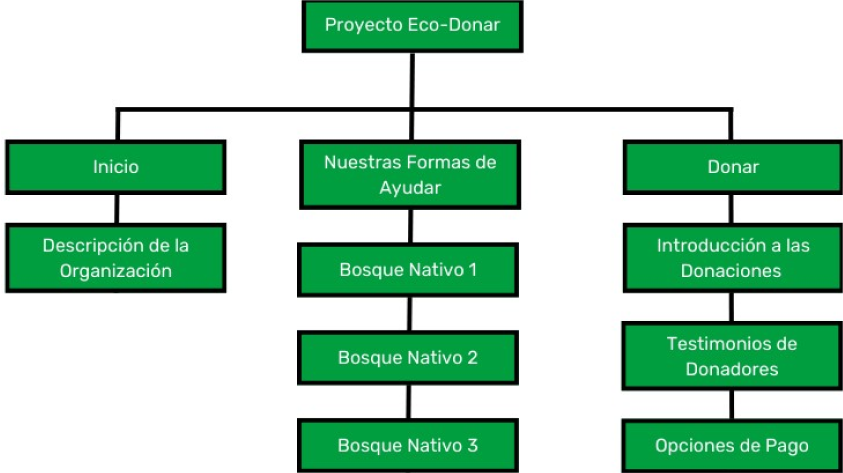
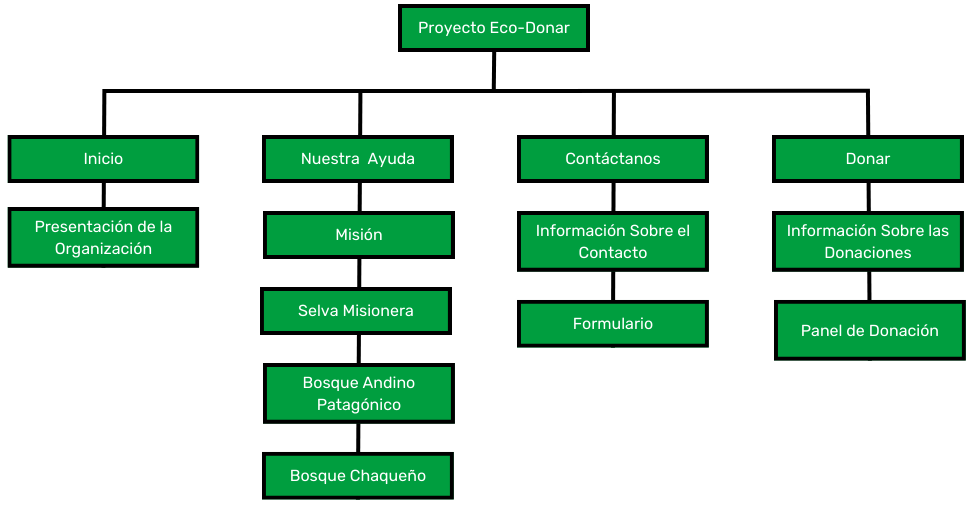
Add files via upload

diff --git a/avances.html b/avances.html
@@ -19,6 +19,7 @@
         <li class="navbar-links"><a href="integrantes.html">Integrantes</a></li>
         <li class="navbar-links"><a href="proyecto.html">Proyecto</a></li>
         <li class="navbar-links"><a href="avances.html">Avances</a></li>
+        <li class="navbar-links"><a href="proyecto-sitio.html">Sitio del Proyecto</a></li>
       </ul>
     </nav>
   </header>
@@ -56,6 +57,7 @@
         <br>
         <b class="texto2">Logo</b>
         <br>
+        
         <img class="logo" src="img\logo-empresa.png" alt="Logo Empresa">
         <br>
         <br>
@@ -75,24 +77,22 @@
         <br>
         <b class="texto6">Inicio</b>
         <br>
-        Descripción de la organización y su misión.
+        Este sector contiene un texto donde se presenta a la organización y sus objetivos 
         <br>
         <br>
-        <b class="texto6">Nuestra forma de ayudar</b>
+        <b class="texto6">Nuestra ayuda</b>
         <br>
-        Tres secciones secundarias, cada una destacando un bosque nativo y sus desafíos.
+        Esta sección presenta la misión de la organización junto con textos que detallan los bosques respaldados: Selva Misionera, Bosque Andino-Patagónico y Bosque Chaqueño. Se abordan las problemáticas de cada uno, como la deforestación, incendios y desertificación, proponiendo soluciones a través de programas de reforestación, brigadas antiincendios y prácticas agrícolas sostenibles en colaboración con las comunidades locales. 
+        <br>
+        <br>
+        <b class="texto6">Contáctanos</b>
+        <br>
+        Este sector contiene un texto que anima a los usuarios a ponerse en contacto con la organización, junto con un formulario que facilita dicha comunicación.
         <br>
         <br>
         <b class="texto6">Donar</b>
         <br>
-        Primera sección: Explicación de la flexibilidad en las donaciones y cómo se utilizarán los fondos.
-        <br>
-        <br>
-        Segunda sección: Testimonios de donadores.
-        <br>
-        <br>
-        Tercera sección: Opciones de pago y formulario de donación.
-        <br>
+        Esta sección presenta un texto que anima a los usuarios a donar y les explica las distintas variables a la hora de hacerlo, junto con un panel de donaciones para hacer posible esta acción.
         <br>
         <br>
         <b class="texto2">Carpeta del Proyecto</b>
@@ -109,11 +109,11 @@
         <br>
         <b>Diseñador UX/UI:</b> Santino Bertoia
         <br>
-        <b>Maquetador:</b> Santino Bertoia
+        <b>Maquetador:</b> Santino Bertoia, Nahuel Stellato, Lautaro Guardia y Matias Cristaldo  
         <br>
-        <b>Programador:</b> Santino Bertoia y Lautaro Guardia
+        <b>Programador:</b> Santino Bertoia, Nahuel Stellato, Lautaro Guardia y Matias Cristaldo 
         <br>
-        <b>Comunicador Web:</b>
+        <b>Comunicador Web:</b> Santino Bertoia y Lautaro Guardia
         <br>
         <br>
       </div>

diff --git a/proyecto-sitio.css b/proyecto-sitio.css
@@ -1,9 +1,6 @@
 @import url('https://fonts.googleapis.com/css2?family=Rubik:wght@300;400;500;700&display=swap');
 
-html {
-    height: 100%;
-}
-
+html{height:  100%;}
 * {
     margin: 0;
     padding: 0;
@@ -11,11 +8,54 @@ html {
     font-family: 'Rubik', sans-serif;
 }
 
+body {
+    background-color:white;
+    display: flex;
+    flex-direction: column;
+    min-height: 100vh;
+}
+
 header {
     width: 100%;
+    margin: 0px;
     position: relative;
     height: auto;
-    z-index: 2;
+}
+
+main {
+    display: flex;
+    flex-direction: column;
+    align-items: center;
+    height: 80vh;
+    text-align: center;
+}
+
+.titulo {
+    color: black;
+    margin-top: 2.25rem;
+    font-size: 5rem;
+    text-decoration: underline;
+}
+
+.link {
+    color: #009E3F;
+    margin-top: 1.75rem;
+    font-size: 2rem;
+
+}
+
+.video {
+    margin-top: 1.75rem;
+    border: 10px solid #009E3F;
+    border-radius: 3%;
+    width: 700px;
+    height: 400px;
+}
+
+footer {
+    width: 100%;
+    margin-top: auto;
+    background-color: #009E3F;
 }
 
 .navbar ul {
@@ -66,6 +106,13 @@ header {
 }
 
 @media (max-width: 860px) {
+    .video {
+        width: 350px;
+        height: 200px;
+    }
+    .titulo{
+        font-size: 3rem;
+    }
     .navbar ul {
         flex-wrap: wrap;
     }
@@ -84,95 +131,10 @@ header {
     footer {
         flex-direction: column;
         text-align: center;
-        margin-bottom: 0.5rem;
     }
     footer p {
         display: none;
     }
-}
-
-.texto6{
-    color: #009E3F;
-    text-decoration: underline;
-}
-
-.contenedor{
-    font-size: 40px;
-}
-
-.texto5{
-    font-size: 5rem;
-    padding-bottom: 2%;
-    text-decoration: underline;
-}
-
-.texto2{
-    color: #009E3F;
-    text-decoration: underline;
-    font-size: 4.5rem;
-}
-
-.texto1{
-    color: #009E3F;
-    font-size: 50px;
-    text-align: center;
-    
-}
-
-.texto3{
-    font-size: 2rem;
-    font-weight: bolder;
-    color: white;
-
-}
-
-body {
-    background-color: white;
-    display: flex;
-    flex-direction: column;
-    min-height: 100vh;
-    margin: 0; 
-}
-
-.estructura{
-text-align: center;
-font-size: 20px;
-}
-
-.logo{
-    margin-top: 0.5%;
-    width: 100%;
-    height: auto;
-    max-width: 20rem;
-}
-
-.paleta {
-    background-color: darkgrey;
-    padding: 1.5%;
-    width: 100%;
-    height: auto;
-    max-width: 45rem;
-}
-
-.arbol {
-    width: 100%;
-    height: auto;
-    max-width: 75rem;
-}
-
-span {
-    color: #009E3F;
-}
-
-.texto{
-    text-align: left;
-    background-color:#008000;
-    border-style: solid;
-    border-radius: 30px;
-    padding: 10px;
-    margin: 10px;
-    font-size: 30px;
-    color: white;
 }
 
 footer {
@@ -182,8 +144,6 @@ footer {
     padding: 1rem; 
     background-color: #009E3F;
     color: white;
-    position: relative;
-    z-index: 2; 
 }
 
 footer img {

diff --git a/proyecto.html b/proyecto.html
@@ -13,12 +13,13 @@
   <header>
       <nav class="navbar">
           <ul>
-              <li class="navbar-logo">Grupo 9</li>
-              <li class="navbar-icono"><i class="fas fa-bars"></i></li>
-              <li class="navbar-links"><a href="index.html">Home</a></li>
-              <li class="navbar-links"><a href="integrantes.html">Integrantes</a></li>
-              <li class="navbar-links"><a href="proyecto.html">Proyecto</a></li>
-              <li class="navbar-links"><a href="avances.html">Avances</a></li>
+            <li class="navbar-logo">Grupo 9</li>
+            <li class="navbar-icono"><i class="fas fa-bars"></i></li>
+            <li class="navbar-links"><a href="index.html">Home</a></li>
+            <li class="navbar-links"><a href="integrantes.html">Integrantes</a></li>
+            <li class="navbar-links"><a href="proyecto.html">Proyecto</a></li>
+            <li class="navbar-links"><a href="avances.html">Avances</a></li>
+            <li class="navbar-links"><a href="proyecto-sitio.html">Sitio del Proyecto</a></li>
           </ul>
       </nav> 
   </header>
@@ -44,7 +45,8 @@
       <p class="texto">Desarrollar un proyecto de energía solar y eólica en la Antártida, llamado "Aurora", para reducir la dependencia de combustibles fósiles y mitigar el cambio climático.</p>
       <br>
       <p class="subtitulo">Antártida 3D:</p>
-      <p class="texto"> Crear experiencias educativas en realidad virtual que permitan a las personas explorar la Antártida de manera virtual, aprendiendo sobre su importancia y los desafíos ambientales.</p>
+      <p class="texto">Antártida 3D:
+        Crear experiencias educativas en realidad virtual que permitan a las personas explorar la Antártida de manera virtual, aprendiendo sobre su importancia y los desafíos ambientales.</p>
       <br>
       <p class="subtitulo">Huella Cero:</p>
       <p class="texto">Desarrollar pautas y estándares estrictos para el turismo en la Antártida, promoviendo visitas sostenibles con cero impacto ambiental.</p>

diff --git a/proyecto-sitio.html b/proyecto-sitio.html
@@ -3,10 +3,10 @@
 <head>
     <meta charset="UTF-8">
     <meta name="viewport" content="width=device-width, initial-scale=1.0">
-    <title>Home Grupo 9</title>
-    <link rel="stylesheet" href="index.css">
+    <title>Sitio del Proyecto Grupo 9</title>
+    <link rel="stylesheet" href="proyecto-sitio.css">
     <link rel="stylesheet" href="https://cdnjs.cloudflare.com/ajax/libs/font-awesome/6.4.2/css/all.min.css">
-    <script type="text/javascript" src="index.js" defer></script>
+    <script type="text/javascript" src="proyecto-sitio.js" defer></script>
     <script src="https://kit.fontawesome.com/e457c69b49.js"></script>
 </head>
 <body>
@@ -24,9 +24,9 @@
         </nav> 
     </header>
     <main>
-        <p class="texto1">Grupo 9</p>
-        <p class="texto2">Litovicius Patricia Carina <span>|</span> Diseño y Desarrollo Web</p>
-        <p class="texto3">Año 2023 Curso 450946</p>
+        <h1 class="titulo">Proyecto Eco-Donar</h1>
+        <a class="link" href="https://berserklover19.github.io/Proyecto-Eco-Donar/index.html" target="_blank">Sitio del Proyecto</a>
+        <iframe class="video" width="560" height="315" src="https://www.youtube.com/embed/wa_3BX9Hk_Q?si=-boAScl4RDbxE3pS" frameborder="0"" allowfullscreen></iframe>
     </main>
     <footer>
         <p>TODOS LOS DERECHOS RESERVADOS</p>

diff --git a/proyecto.css b/proyecto.css
@@ -1,9 +1,6 @@
 @import url('https://fonts.googleapis.com/css2?family=Rubik:wght@300;400;500;700&display=swap');
 
-html {
-    height: 100%;
-}
-
+html{height:  100%;}
 * {
     margin: 0;
     padding: 0;
@@ -30,7 +27,7 @@ main {
     flex-direction: column;
     justify-content: center;
     align-items: center;
-    flex: 1; /* Ocupa el espacio restante */
+    flex: 1;
     text-align: center;
 }
 
@@ -125,7 +122,7 @@ footer {
     transition: 0.5s;
 }
 
-@media (max-width: 640px) {
+@media (max-width: 860px) {
     .navbar ul {
         flex-wrap: wrap;
     }

diff --git a/integrantes.html b/integrantes.html
@@ -19,6 +19,7 @@
                 <li class="navbar-links"><a href="integrantes.html">Integrantes</a></li>
                 <li class="navbar-links"><a href="proyecto.html">Proyecto</a></li>
                 <li class="navbar-links"><a href="avances.html">Avances</a></li>
+                <li class="navbar-links"><a href="proyecto-sitio.html">Sitio del Proyecto</a></li>
             </ul>
         </nav> 
     </header>

diff --git a/proyecto-sitio.js b/proyecto-sitio.js
@@ -1,0 +1,8 @@
+const iconoButton = document.querySelector(".navbar-icono");
+const navbar = document.querySelector(".navbar");
+
+function toggleNavbarLinks() {
+    navbar.classList.toggle("active");
+}
+
+iconoButton.addEventListener("click", toggleNavbarLinks);

diff --git a/index.css b/index.css
@@ -109,7 +109,7 @@ footer {
     transition: 0.5s;
 }
 
-@media (max-width: 640px) {
+@media (max-width: 860px) {
     .navbar ul {
         flex-wrap: wrap;
     }

diff --git a/integrantes.css b/integrantes.css
@@ -84,7 +84,7 @@ section {
     transition: 0.5s;
 }
 
-@media (max-width: 640px) {
+@media (max-width: 860px) {
     .navbar ul {
         flex-wrap: wrap;
     }
